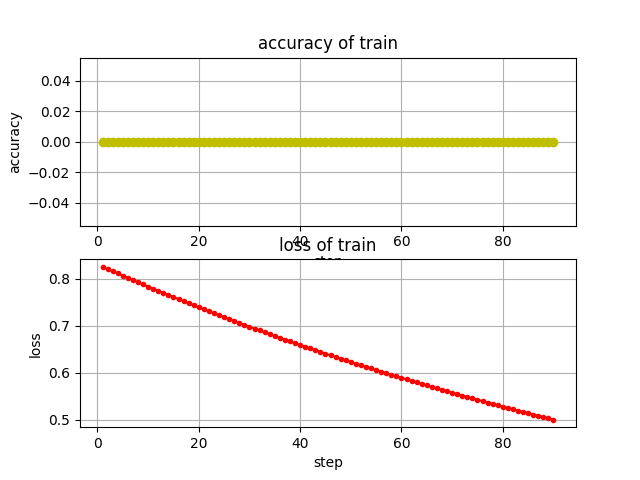
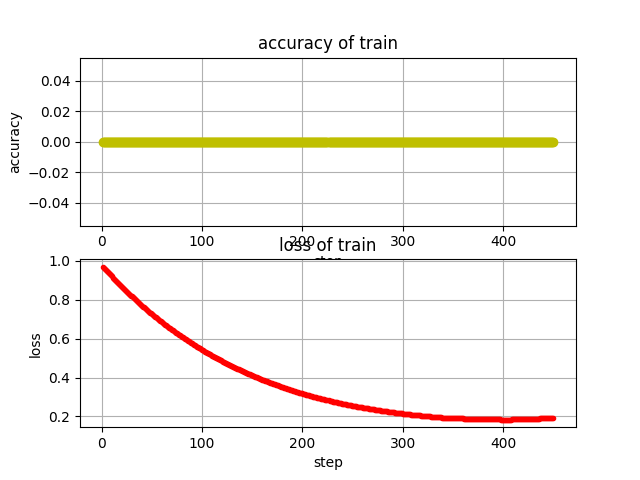
update data_helper.py

diff --git a/Energy/Ethylene/data_helper.py b/Energy/Ethylene/data_helper.py
@@ -24,7 +24,7 @@ def normalize(data):
     return data
 
 #为train.py所调用
-
+#加载train或者test数据，返回可用的X, y型
 def load_data(path):
     data = np.loadtxt(path).tolist()
     X = []
@@ -33,6 +33,16 @@ def load_data(path):
         X.append(data[i][0:5])
         y.append(data[i][5:])
     return X, y
+
+#读取数据，分离train和test
+def split(test_sample_percentage,path):
+    data = np.loadtxt(path)
+    shuffled_data = np.random.permutation(data)
+    test_sample_index = -1 * int(test_sample_percentage * float(len(shuffled_data)))
+    train, test = shuffled_data[:test_sample_index], shuffled_data[test_sample_index:]
+    np.savetxt('train.txt', train)
+    np.savetxt('test.txt', test)
+
 
 #generator batch data with shuffled
 def batch_iter(data, batch_size, num_epochs, shuffle=True):
@@ -50,6 +60,6 @@ def batch_iter(data, batch_size, num_epochs, shuffle=True):
             end_index = min((num_batch + 1) * batch_size, data_size)
             yield data_shufled[start_index : end_index]
 
-
+#split(0.2, 'normalized.txt') /137
 #_, y = load_data('normalized.txt')
 

diff --git a/Energy/Ethylene/train.py b/Energy/Ethylene/train.py
@@ -18,7 +18,7 @@ dropout_keep_prob = 0.5
 l2_reg_lambda = 0.0
 
 batch_size = 16
-num_epochs = 10
+num_epochs = 50
 #Evaluate model on dev set after this many steps (default: 100)
 evaluate_every = 100
 #Save model after this many steps (default: 100)
@@ -31,8 +31,7 @@ print('Loading data...')
 X, y = data_helper.load_data(data_path)
 X = np.array(X)
 y = np.array(y)
-print('X.shape:')
-print(X.shape)
+
 
 # Split train/test set
 test_sample_index =  -1 * int(test_sample_percentage * float(len(y)))
